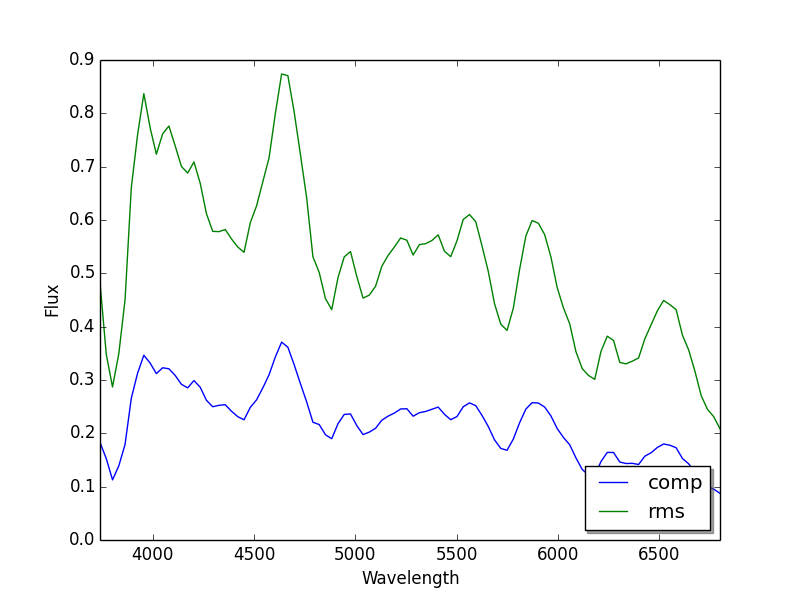
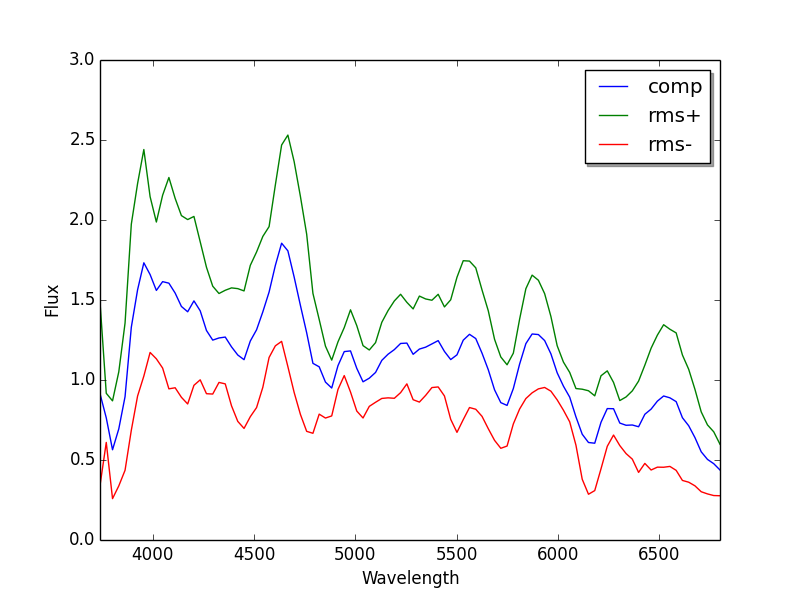
updated

diff --git a/personal/Yinghe/specavg.py b/personal/Yinghe/specavg.py
@@ -26,8 +26,8 @@ for dirs,subdirs,files in os.walk(path):
             spectra_files.append(os.path.join(dirs,file))
 
 #Read in data, store unreadable files (give an error when read in) in a separate array
-
-for i in range(20):
+num = 20 # the number of spectra to analyze
+for i in range(num):
     try:
         spectra_arrays.append(np.loadtxt(spectra_files[i]))
         spectra_name.append(spectra_files[i])
@@ -63,21 +63,26 @@ for i in range(len(spectra_arrays)):
     y1=inter.splev(wavelength,sm1)	#fits b-spline over wavelength range
     y1 /= np.median(y1)
     fitted_flux.append(y1)
+#print fitted_flux
     
 Comp_flux = []   
-RMS_flux = []
+RMS1_flux = []
+RMS2_flux = []
 for i in range(len(wavelength)): 
     fluxa = sum(flux[i] for flux in fitted_flux)
-#    print fluxa
-    fluxb = sum(float(flux[i])**2 for flux in fitted_flux)  
-    Comp_flux.append(fluxa/float(len(wavelength)))
-    RMS_flux.append(math.sqrt(fluxb/float(len(wavelength))))     
-print RMS_flux
+    Comp_flux.append(fluxa/num)
+    fluxb = sum((flux[i]-Comp_flux[i])**2 for flux in fitted_flux)
+    fluxc = sum((flux[i])**2 for flux in fitted_flux)
+    print fluxb,fluxc,Comp_flux[i]
+    RMS1_flux.append(Comp_flux[i]+math.sqrt(fluxb/num))
+    RMS2_flux.append(Comp_flux[i]-math.sqrt(fluxb/num)) 
+#print RMS_flux
     
 #plot composite spectrum
 plot1 = plt.plot(wavelength,Comp_flux,label = 'comp')
-plot2 = plt.plot(wavelength,RMS_flux,label = 'rms')
-legend = plt.legend(loc='lower right', shadow=True)
+plot2 = plt.plot(wavelength,RMS1_flux,label = 'rms+')
+plot3 = plt.plot(wavelength,RMS2_flux,label = 'rms-')
+legend = plt.legend(loc='upper right', shadow=True)
 plt.xlim(wave_min,wave_max)
 plt.xlabel('Wavelength')
 plt.ylabel('Flux')
